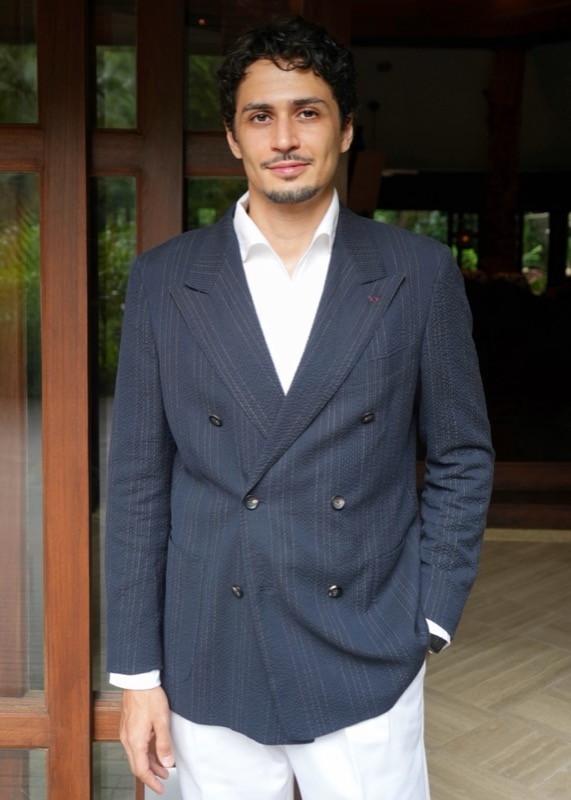
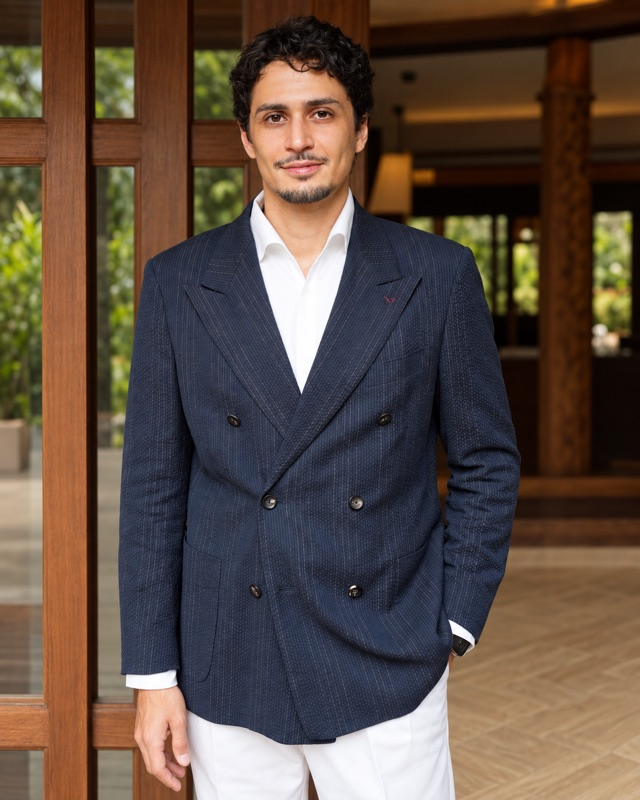
О нас: новое фото основателя 4:5 целиком (голова, руки, фон без обрезки); откат увеличения ×1.1

diff --git a/index.html b/index.html
@@ -1014,7 +1014,7 @@ input.bad{border-color:#d98a84!important;background:var(--paper)6f5}
 .val::before{content:"✓";color:var(--espresso);margin-right:8px;font-weight:800}
 .about-grid{display:grid;gap:28px;align-items:center}
 @media(min-width:900px){.about-grid{grid-template-columns:1fr 1.2fr;gap:60px}}
-.about-photo .person-photo{object-position:50% 5%;inset:0 auto auto -3%;width:110%;max-width:none;height:110%} /* 15.09: чуть крупнее (×1.1), верх не режем, сдвиг вправо убирает пустую дверь */
+.about-photo .person-photo{object-position:50% 5%}
 .about-photo{position:relative;overflow:hidden;aspect-ratio:4/5;border-radius:24px;box-shadow:var(--shadow);background:linear-gradient(160deg,var(--green-soft),var(--green) 55%,var(--green-deep));display:flex;align-items:flex-end;justify-content:center}
 .about-photo .ph-label{margin:0 auto 20px;background:rgba(var(--glass-rgb),.8);border-radius:999px;padding:8px 18px;font-size:.85rem;font-weight:600;color:var(--muted)}
 .metrics{display:grid;grid-template-columns:1fr 1fr;gap:16px;margin-top:20px}
@@ -2451,7 +2451,7 @@ body{background:var(--bg)}
   <div class="container about-grid">
     <div class="reveal">
       <div class="about-photo" role="img" aria-label="Фото Эльнура Ханкишиева">
-        <img class="person-photo" src="img/elnur-founder.jpg" srcset="img/elnur-founder-800.jpg 571w, img/elnur-founder.jpg 857w" sizes="(max-width:900px) 60vw, 30vw" alt="Эльнур Ханкишиев, основатель" width="857" height="1200" loading="lazy" decoding="async" onerror="this.remove()" onload="var s=this.parentNode.querySelector('.ph-label');if(s)s.remove();">
+        <img class="person-photo" src="img/elnur-founder.jpg" srcset="img/elnur-founder-800.jpg 640w, img/elnur-founder.jpg 1120w" sizes="(max-width:900px) 60vw, 30vw" alt="Эльнур Ханкишиев, основатель" width="1120" height="1400" loading="lazy" decoding="async" onerror="this.remove()" onload="var s=this.parentNode.querySelector('.ph-label');if(s)s.remove();">
         <span class="ph-label" data-i18n="ph.elnur">фото Эльнура</span>
       </div>
     </div>
